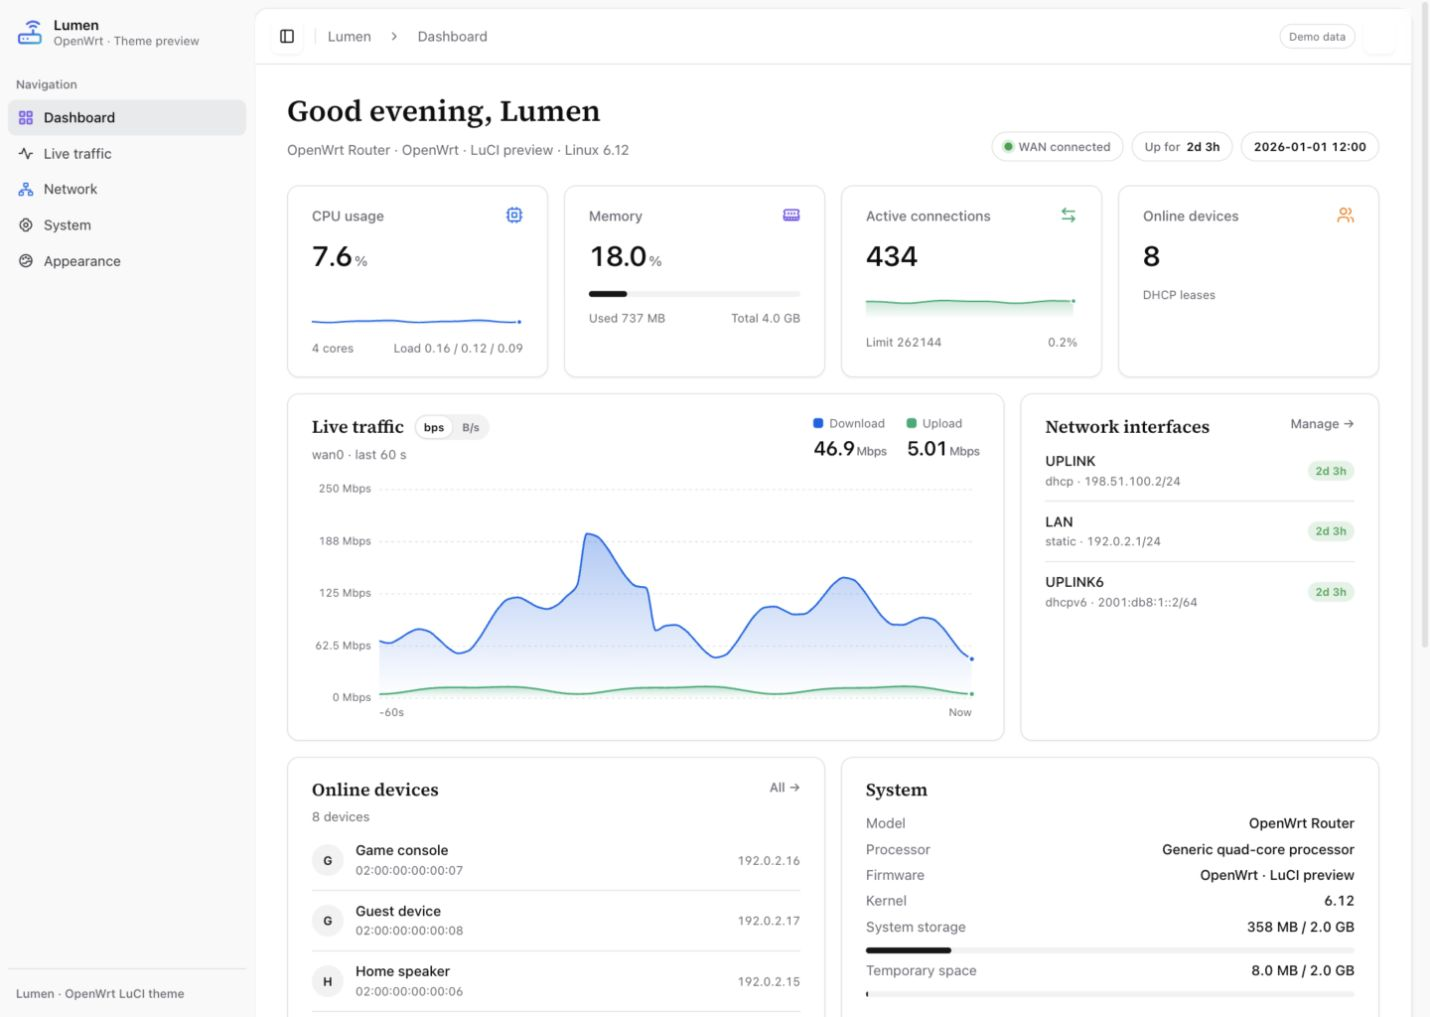
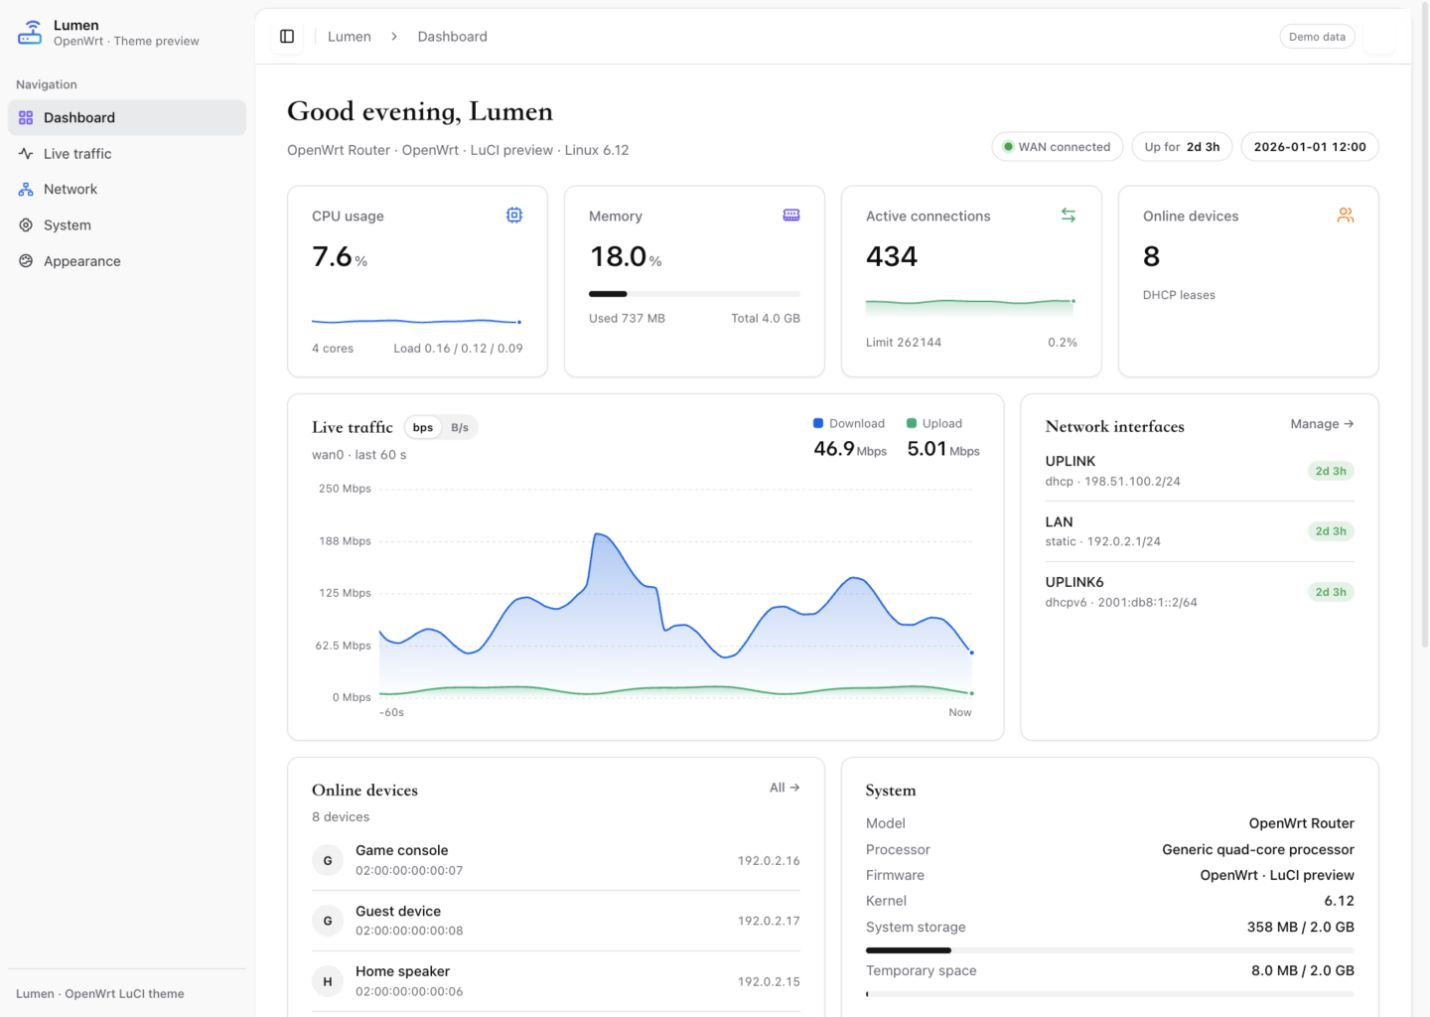
Show system fonts in English previews

diff --git a/docs/demo/index.html b/docs/demo/index.html
@@ -14,7 +14,7 @@
     document.documentElement.lang = query.get('lang') === 'en' ? 'en' : 'zh-CN';
     document.documentElement.dataset.demoView = document.documentElement.lang === 'en' && query.get('view') === 'updates' ? 'updates' : 'dashboard';
   </script>
-  <link rel="stylesheet" href="../../htdocs/luci-static/lumen/fonts.css">
+  <link id="bundled-fonts" rel="stylesheet" href="../../htdocs/luci-static/lumen/fonts.css">
   <link rel="stylesheet" href="../../htdocs/luci-static/lumen/base.css">
   <link rel="stylesheet" href="../../htdocs/luci-static/lumen/mobile.css">
   <link rel="stylesheet" href="../../htdocs/luci-static/lumen/lumen.css">

diff --git a/docs/demo/preview.js b/docs/demo/preview.js
@@ -19,6 +19,8 @@ const translations = {
 const english = document.documentElement.lang === 'en';
 const updatesDemo = document.documentElement.dataset.demoView === 'updates';
 if (english) {
+  // Match the lightweight core package, which uses system fonts by default.
+  document.getElementById('bundled-fonts').disabled = true;
   document.title = 'Lumen · Demo data';
   document.body.classList.replace('lang_zh-cn', 'lang_en');
   document.querySelectorAll('[data-en]').forEach(el => { el.textContent = el.dataset.en; });

diff --git a/README.en.md b/README.en.md
@@ -27,7 +27,7 @@ A responsive theme for modern OpenWrt LuCI, with light and dark appearances, a c
 
 <img src="docs/screenshots/mobile-en.jpg" width="360" alt="Mobile layout with synthetic demo data">
 
-**All screenshots use synthetic demonstration data. They are not device benchmarks or live network records.** To reproduce them, serve the repository root locally and open `docs/demo/?lang=en`; add `&mode=light` for the light theme or `&view=updates` for the sample update page.
+**All screenshots use synthetic demonstration data. They are not device benchmarks or live network records.** The English previews use system fonts, matching the lightweight core package. To reproduce them, serve the repository root locally and open `docs/demo/?lang=en`; add `&mode=light` for the light theme or `&view=updates` for the sample update page.
 
 ## Compatibility and validation
 
